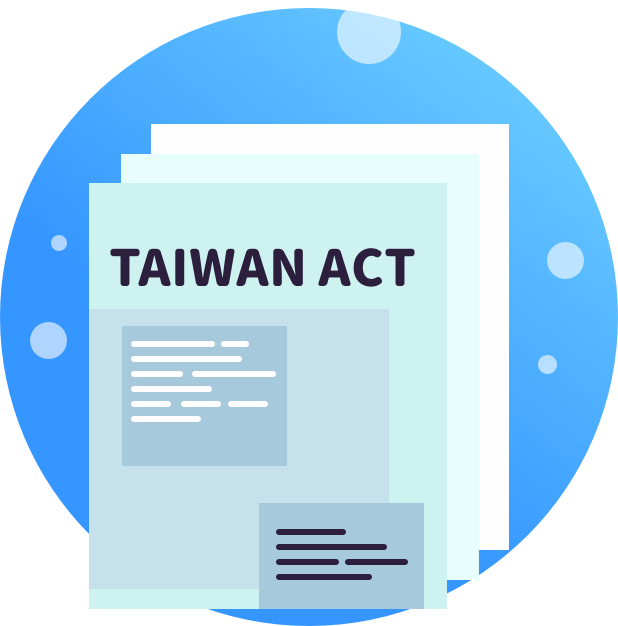
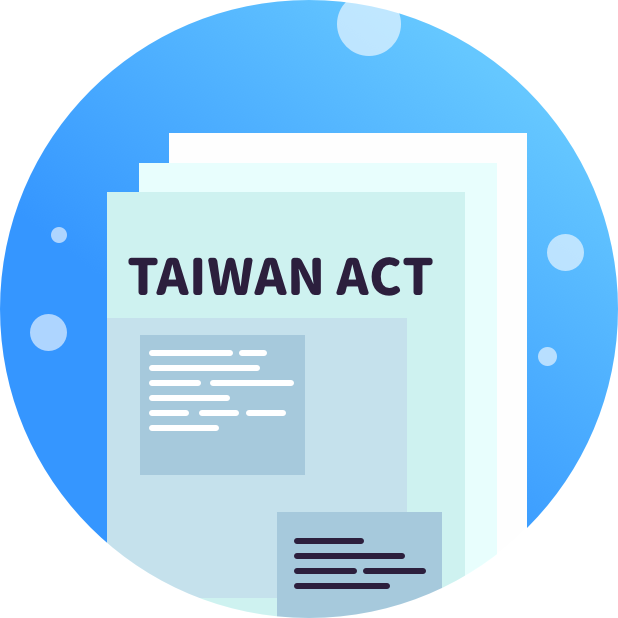
update images

diff --git a/pages/index.vue b/pages/index.vue
@@ -73,7 +73,7 @@
         <div class="hero-block tw-bill">
           <div class="img-area">
             <img
-              :src="twBill"
+              :src="twMember"
               class="twBillImg">
           </div>
           <div class="text-area">
@@ -143,6 +143,7 @@ import bannerFg from '~/assets/img/banner-people.png'
 
 import sail from '~/assets/img/sail.png'
 import twBill from '~/assets/img/intro-tw-bill.png'
+import twMember from '~/assets/img/intro-tw-member.png'
 
 // components
 import Spinner from '~/components/Spinner'
@@ -183,6 +184,7 @@ export default {
       bannerBg,
       bannerFg,
       twBill,
+      twMember,
       sail,
       showSubscription: urlQuery.subscribe === 'true' ? true : false,
       showDonorbox: urlQuery.donate === 'true' ? true : false
